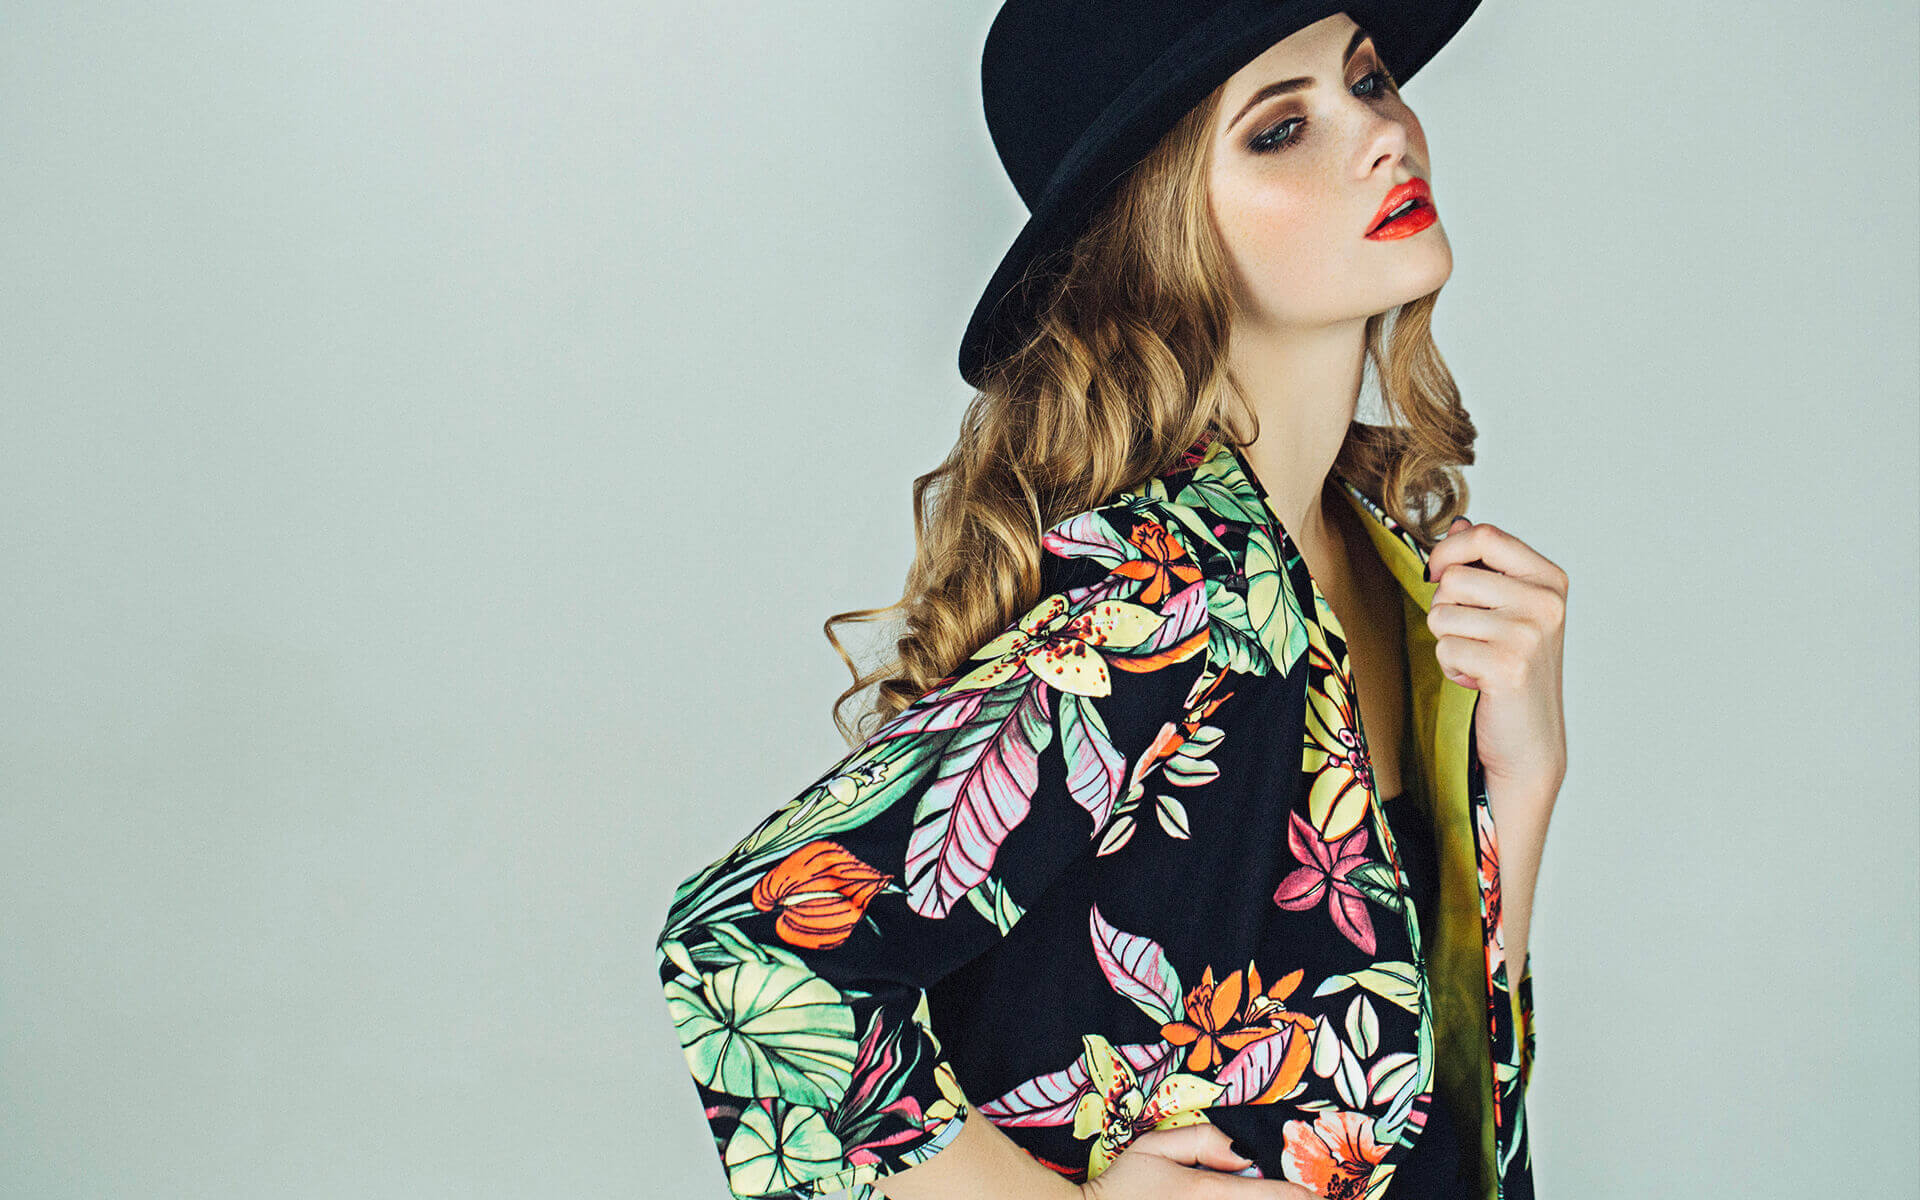
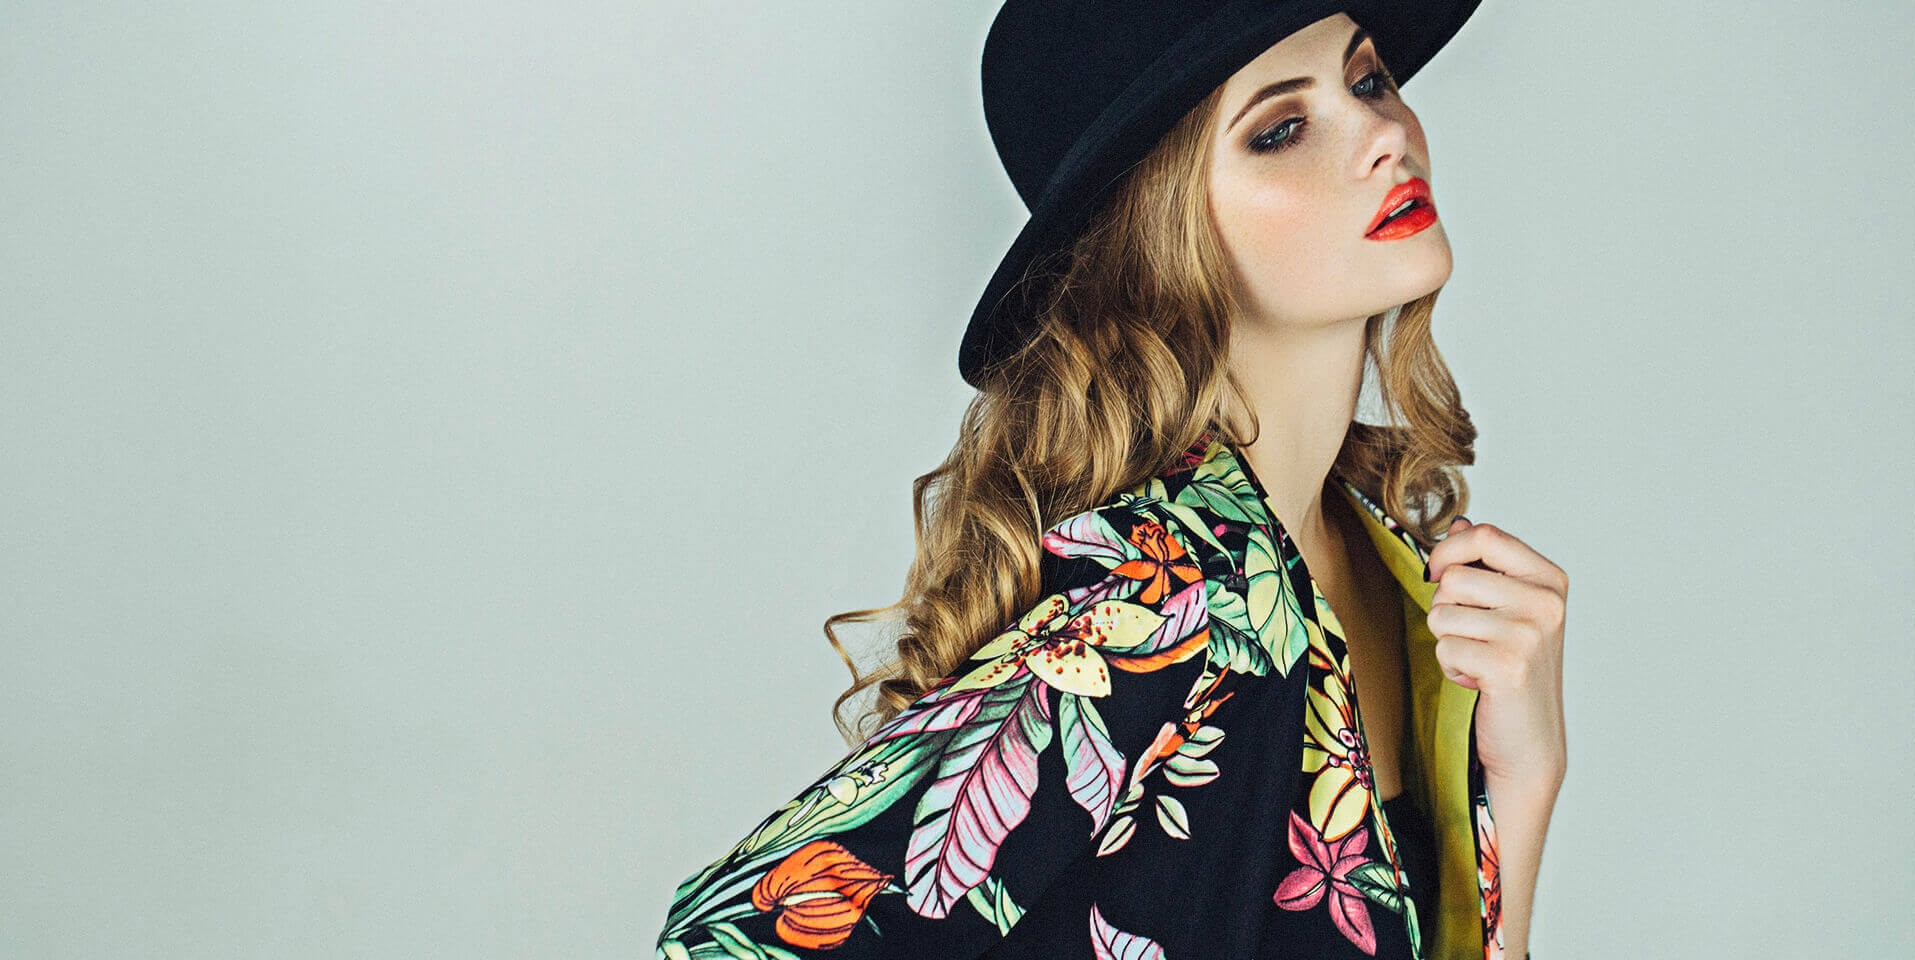
add image and called hem

Changed region(s): [[0.3389, 0.0, 0.8319, 1.0], [0.493, 0.0, 0.5238, 0.0625], [0.493, 0.125, 0.5238, 0.1562]]

diff --git a/src/Home/Home.js b/src/Home/Home.js
@@ -10,6 +10,7 @@ import AwesomeSliderStyles from "react-awesome-slider";
 import withAutoplay from "react-awesome-slider/dist/autoplay";
 import "react-awesome-slider/dist/styles.css";
 import shop3 from "./shop3_banner1.jpg";
+import chop4 from "./shop3_banner2.jpg";
 class Home extends React.Component {
   render() {
     const AutoplaySlider = withAutoplay(AwesomeSliderStyles);
@@ -256,7 +257,7 @@ class Home extends React.Component {
             <div className="chop3">
               <img src={shop3} alt="images" id="img5" />
             </div>
-            <div data-src={shop3} />
+            <div data-src={chop4} id="img5" />
           </AutoplaySlider>
         </div>
       </div>
